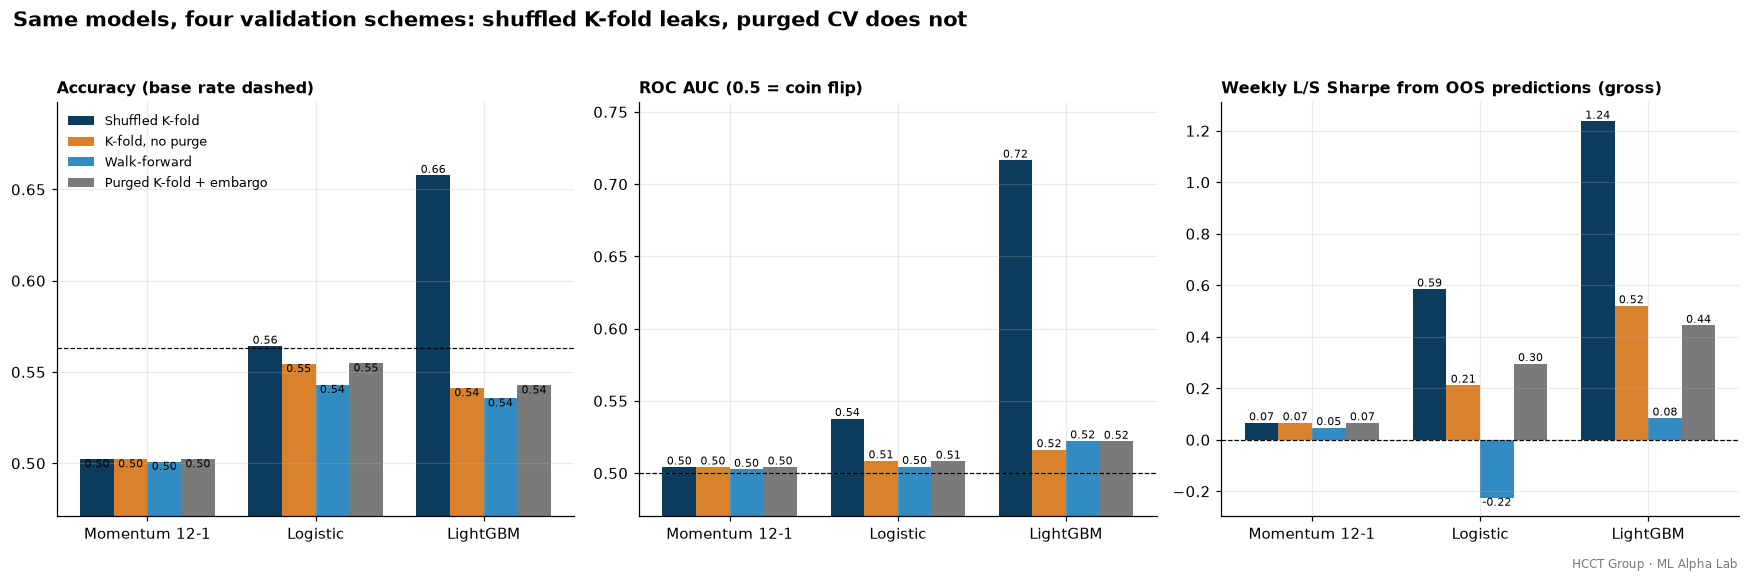
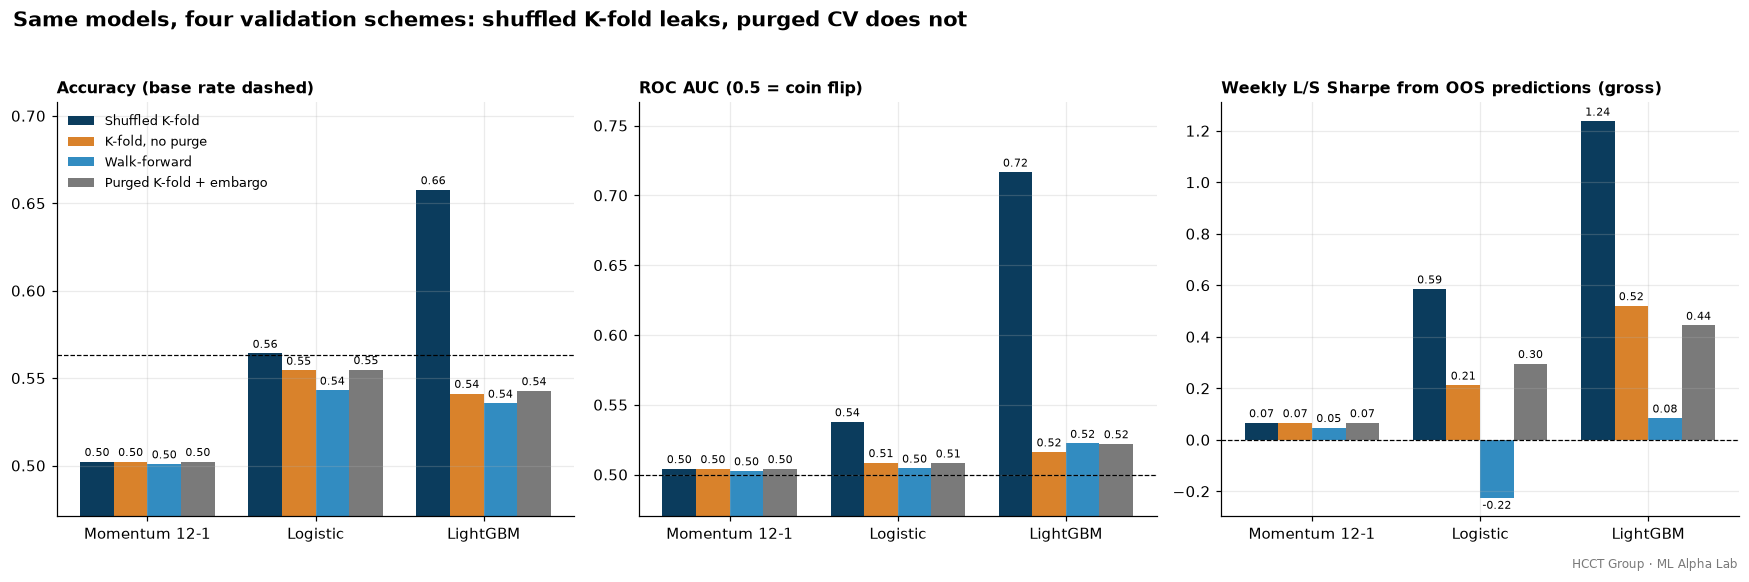
CV comparison chart: place value labels outside bars

diff --git a/src/ml_alpha_lab/plots.py b/src/ml_alpha_lab/plots.py
@@ -41,14 +41,16 @@ def cv_comparison(tab: pd.DataFrame, base_rate: float, path):
             v = [tab.loc[(m, s), col] for m in models]
             bars = ax.bar(x + (j - (len(schemes) - 1) / 2) * wd, v, wd, color=PALETTE[j], label=s)
             for b, val in zip(bars, v):
-                ax.text(b.get_x() + b.get_width() / 2, val, f"{val:.2f}", ha="center", va="bottom" if val >= ref else "top", fontsize=7)
+                up = val >= 0
+                ax.annotate(f"{val:.2f}", (b.get_x() + b.get_width() / 2, val), xytext=(0, 2 if up else -2),
+                            textcoords="offset points", ha="center", va="bottom" if up else "top", fontsize=7)
         ax.axhline(ref, color="k", lw=0.8, ls="--")
         ax.set_xticks(x, models)
         ax.set_title(lab, loc="left", fontweight="bold", fontsize=10.5)
         _style(ax)
         if col != "L/S Sharpe":
             lo = min(tab[col].min(), ref) - 0.03
-            ax.set_ylim(lo, tab[col].max() + 0.04)
+            ax.set_ylim(lo, tab[col].max() + 0.05)
     axes[0].legend(frameon=False, fontsize=8.5, loc="upper left")
     fig.suptitle("Same models, four validation schemes: shuffled K-fold leaks, purged CV does not",
                  fontsize=13.5, fontweight="bold", x=0.01, ha="left")
